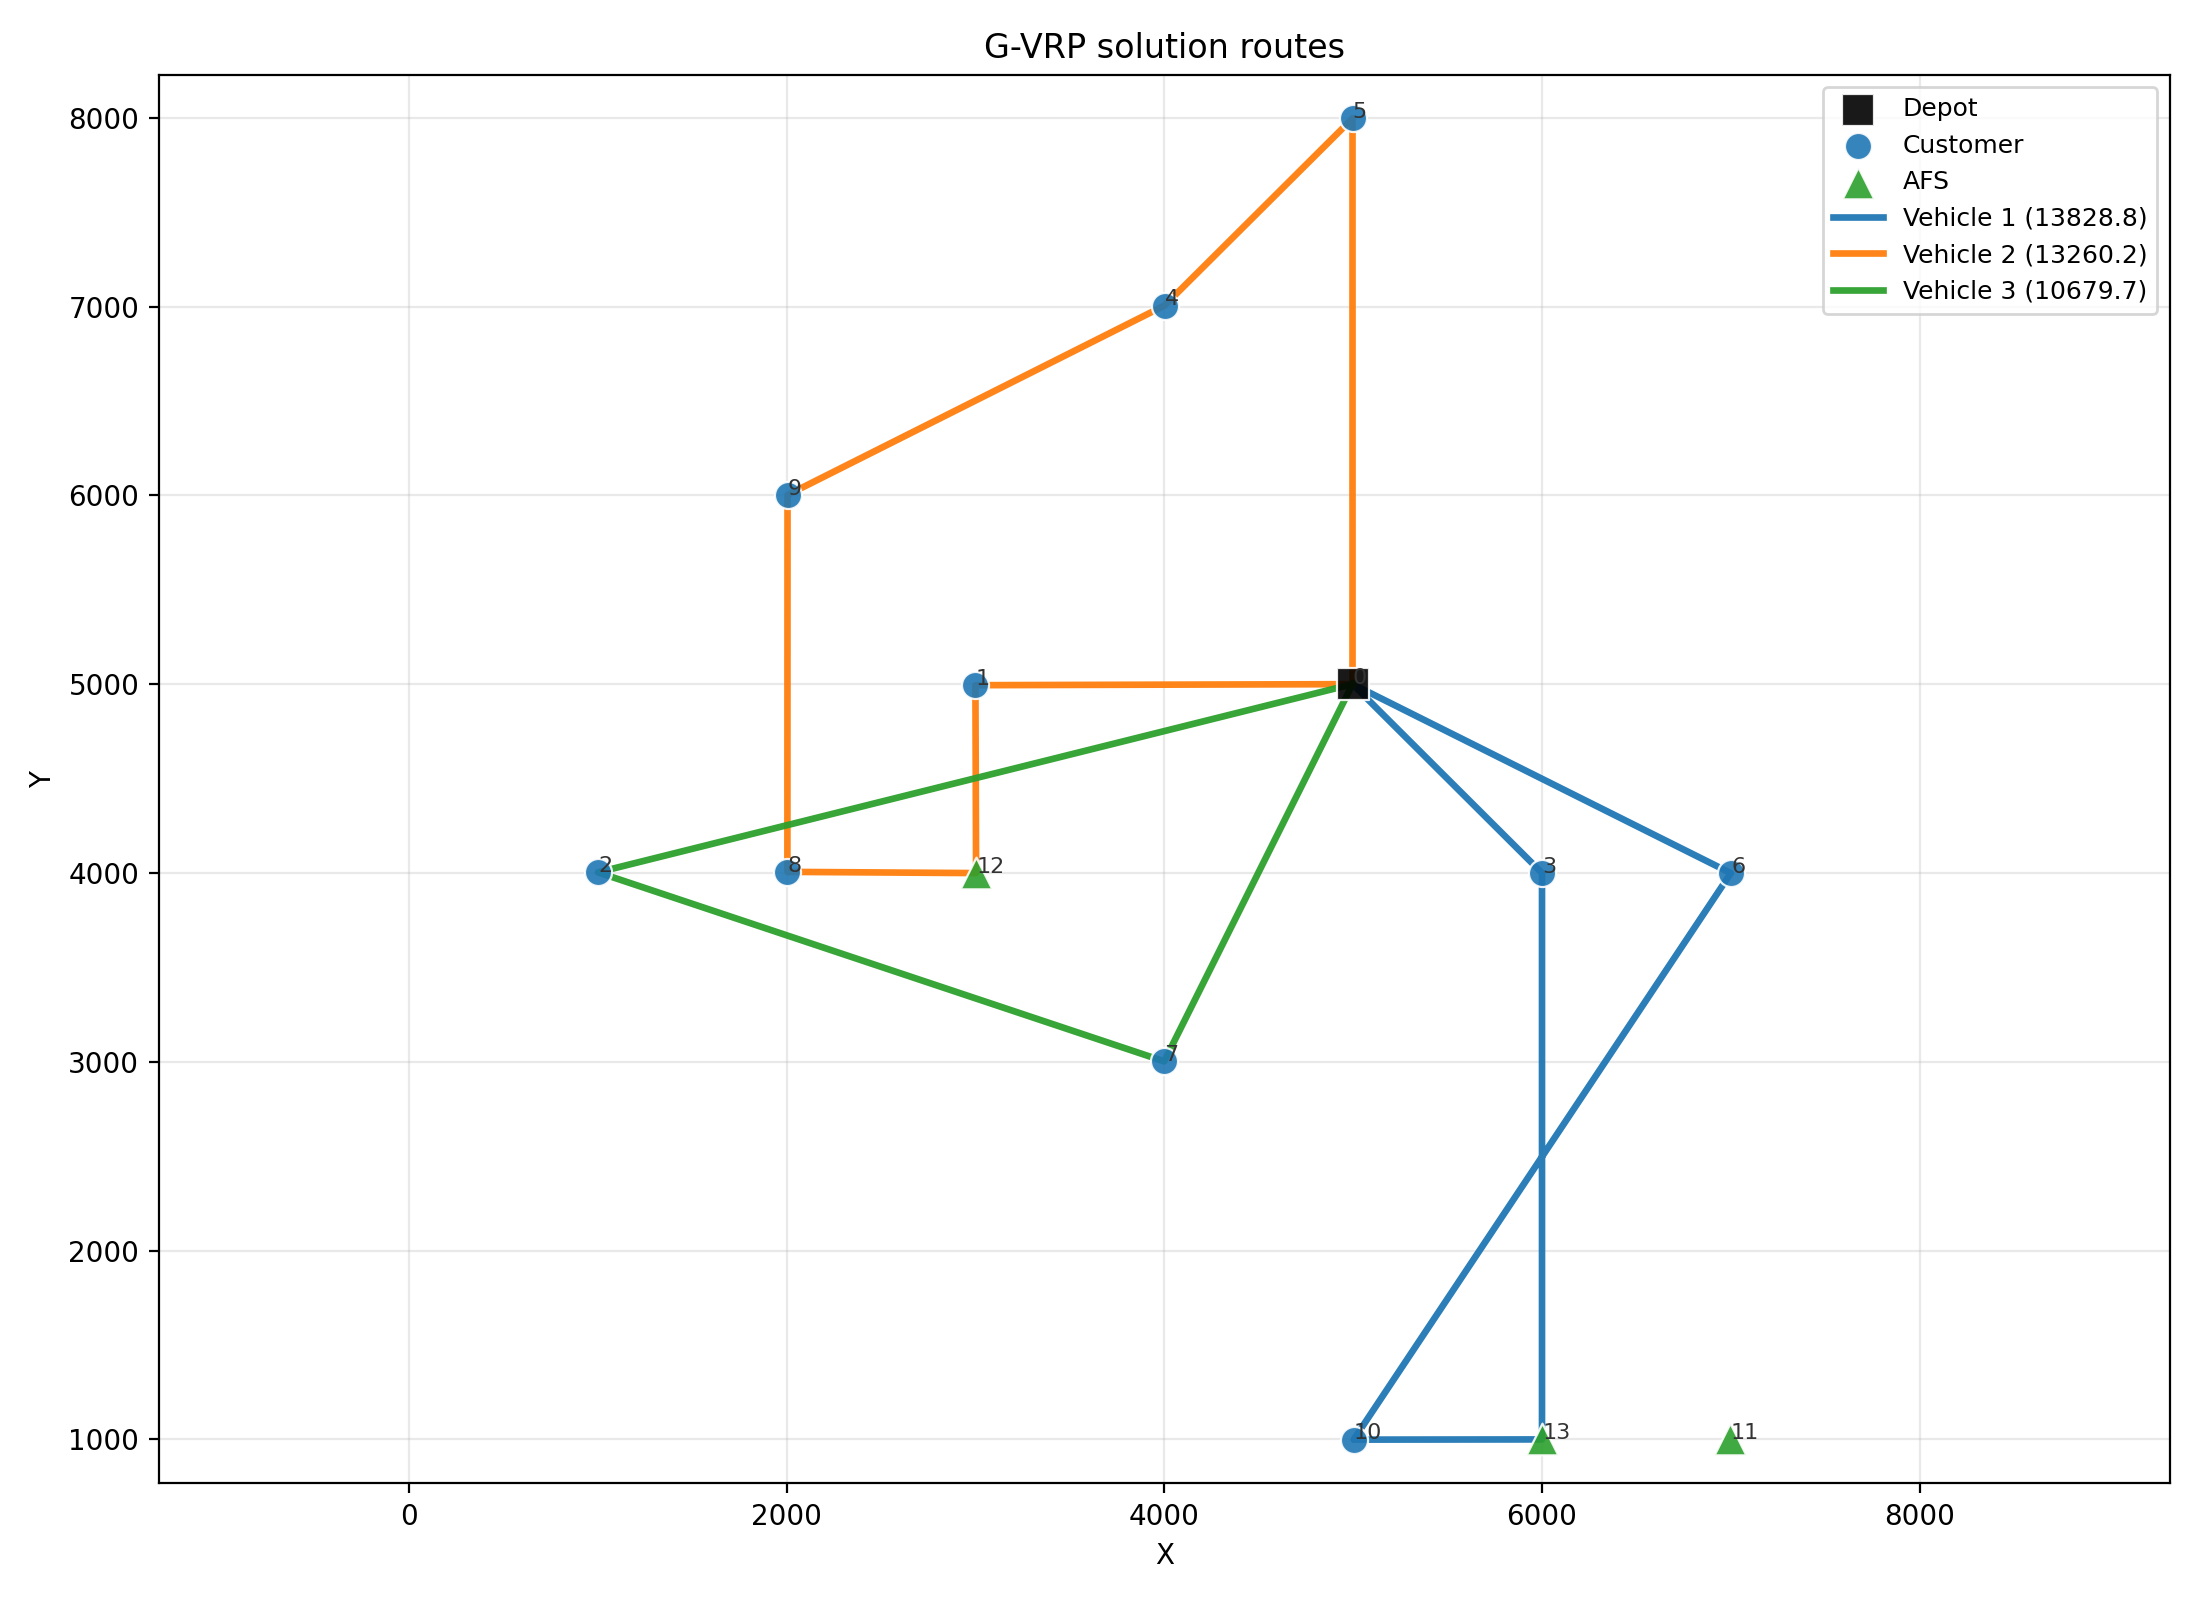
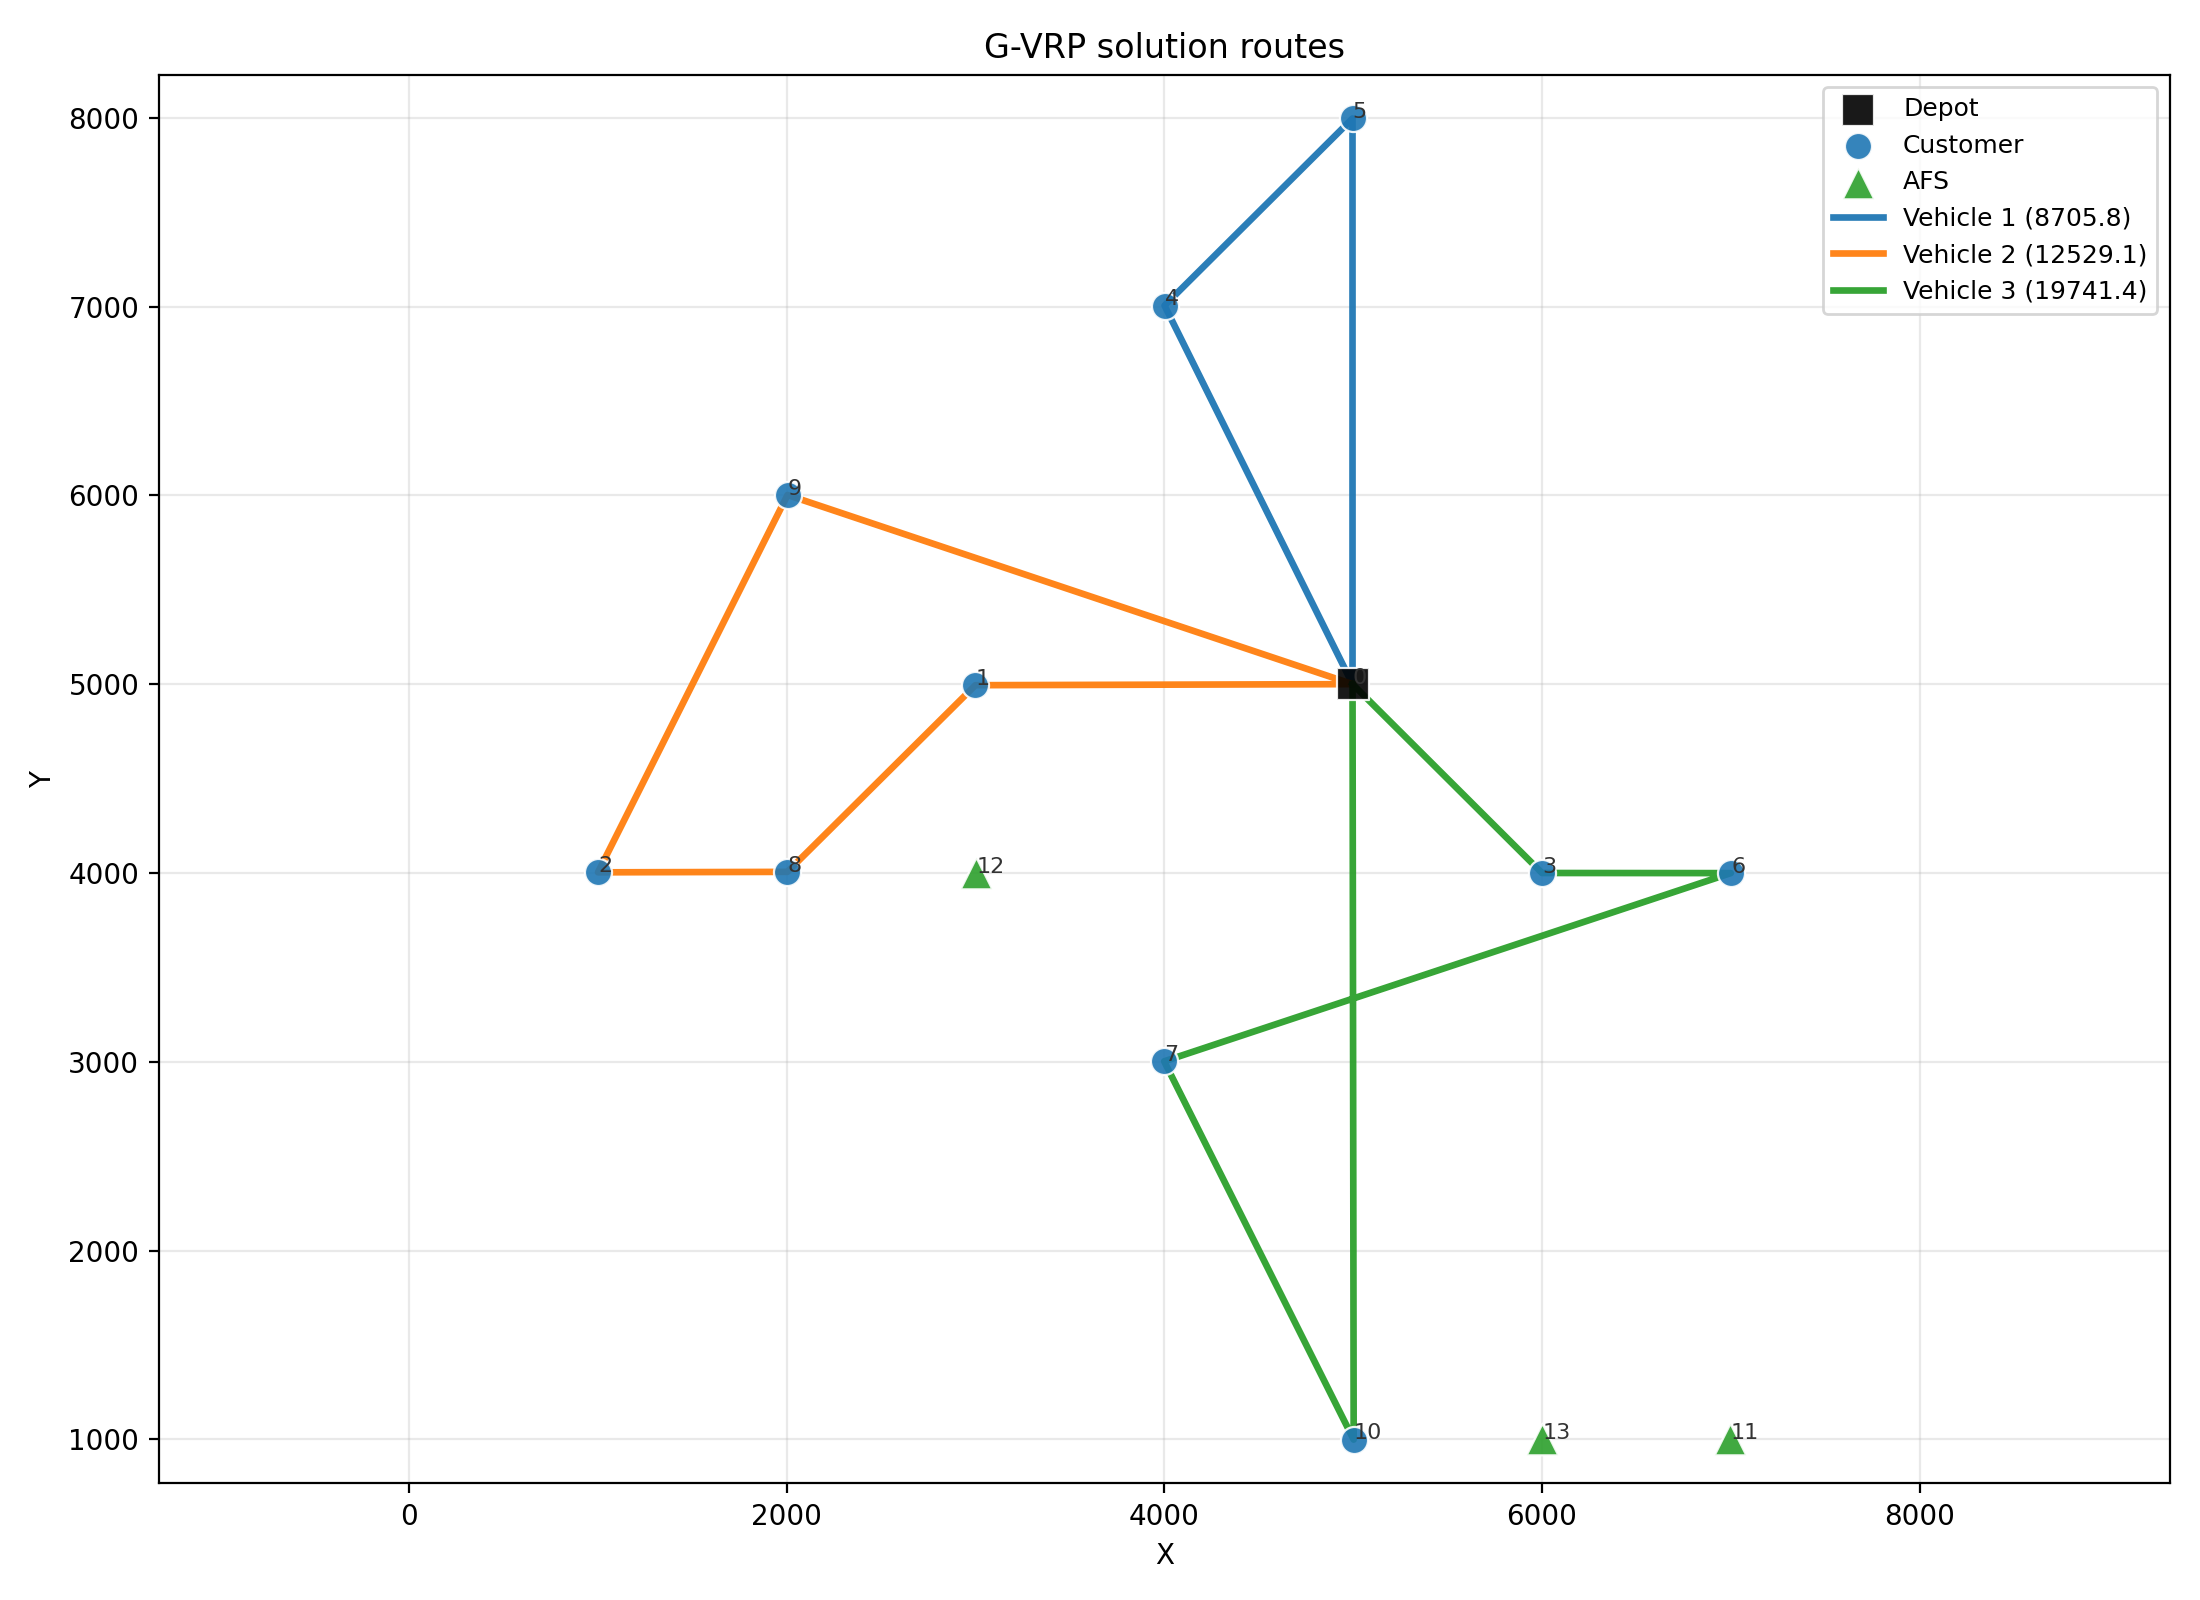
runtime refueling trackback

diff --git a/dronesim/evrp/simulator/evrp_sim.py b/dronesim/evrp/simulator/evrp_sim.py
@@ -43,7 +43,7 @@ try:
 except ImportError as e:
     raise ImportError(f"traci/sumolib required for simulation: {e}") from e
 
-from ..planners.base import Route
+from ..planners.base import Route, Stop
 from .pygame_renderer import PygameRenderer
 
 
@@ -121,6 +121,13 @@ class _VehicleState:
         self.current_fuel = max(0.0, self.current_fuel - used)
         self.distance_m += dist_m
         self.energy_kwh += used * self._GAL_TO_KWH
+
+    @property
+    def range_m(self) -> float:
+        """Remaining range in metres given current fuel."""
+        if self.consumption_rate <= 0:
+            return float("inf")
+        return self.current_fuel / self.consumption_rate
 
     def refuel(self) -> None:
         self.current_fuel = self.fuel_capacity
@@ -231,6 +238,7 @@ class EVRPSimulator:
         self.refuel_time_s = float(self._gvrp_cfg.get("refuel_time_hours", 0.25)) * 3600.0
         self.service_time_s = float(self._gvrp_cfg.get("customer_service_time_hours", 0.5)) * 3600.0
 
+        self.runtime_refuel = bool(self._sim_cfg.get("runtime_refuel", True))
         self.render_mode = str(self._sim_cfg.get("render_mode", "quiet")).strip().lower()
         valid_render_modes = {"quiet", "print", "human"}
         if self.render_mode not in valid_render_modes:
@@ -354,38 +362,129 @@ class EVRPSimulator:
         served_customers: set[str],
         vehicle_states: dict[int, _VehicleState],
     ) -> float:
-        """Drive one vehicle through its planned stops. Returns updated sim time."""
+        """Drive one vehicle through its planned stops. Returns updated sim time.
+
+        Fuel constraints enforced at runtime
+        -------------------------------------
+        Before driving to the next planned stop the simulator checks:
+
+        1. **Hard fuel gate** — is there enough fuel to physically reach the
+           next stop?  If not the vehicle's run ends where it is.
+        2. **Range callback** — is there enough fuel to reach the next stop
+           *and* return to the depot from there?  If not the vehicle drives
+           back to the depot first, refuels, then resumes its route.
+        3. **Depot recharge** — any depot visit (planned or unplanned
+           trackback) fully recharges the vehicle.
+        """
         stops = route.stops
         if len(stops) < 2:
             return sim_time_s
 
-        for leg_idx in range(len(stops) - 1):
+        # Identify the depot node from the first stop.
+        depot_node = stops[0].sumo_node_id
+
+        leg_idx = 0
+        while leg_idx < len(stops) - 1:
             src_stop = stops[leg_idx]
             dst_stop = stops[leg_idx + 1]
 
             src_node = src_stop.sumo_node_id
             dst_node = dst_stop.sumo_node_id
 
+            # ── Same-node dummy stops (AFS / depot copies) ────────────
             if src_node == dst_node:
-                # dummy copy of same physical node — no travel needed
                 sim_time_s = self._wait(sim_time_s, self.refuel_time_s, traffic)
                 vs.refuel()
+                leg_idx += 1
                 continue
 
-            # Find edge route between nodes
+            dist_to_next = self._route_distance_m(src_node, dst_node)
+
+            # ── Hard fuel gate ─────────────────────────────────────────
+            # Not enough fuel to even reach the next stop → end run.
+            if vs.range_m < dist_to_next:
+                if self.render_mode in ("print", "human"):
+                    print(
+                        f"  vehicle {vs.vehicle_id} stranded at {src_stop.node_name}: "
+                        f"range={vs.range_m:.1f}m < {dist_to_next:.1f}m to "
+                        f"{dst_stop.node_name}, ending run"
+                    )
+                break
+
+            # ── Range callback (optional) ──────────────────────────────
+            # Check: can the vehicle reach dst *and* still return to depot?
+            dist_dst_to_depot = self._route_distance_m(dst_node, depot_node)
+            if self.runtime_refuel and vs.range_m < dist_to_next + dist_dst_to_depot:
+                # Not enough range for the round-trip — trackback to depot.
+                dist_to_depot = self._route_distance_m(src_node, depot_node)
+
+                if vs.range_m < dist_to_depot:
+                    # Cannot even reach the depot from here → end run.
+                    if self.render_mode in ("print", "human"):
+                        print(
+                            f"  vehicle {vs.vehicle_id} stranded at "
+                            f"{src_stop.node_name}: cannot reach depot, ending run"
+                        )
+                    break
+
+                # Drive back to depot, refuel, then resume from this leg_idx.
+                edge_list = self._find_edge_route(src_node, depot_node)
+                if not edge_list:
+                    if self.render_mode in ("print", "human"):
+                        print(
+                            f"  [warn] vehicle {vs.vehicle_id}: no route to depot "
+                            f"from {src_node}, ending run"
+                        )
+                    break
+
+                dist_m, sim_time_s = self._drive(vs, edge_list, sim_time_s, traffic)
+                vs.consume(dist_m)
+                vehicle_positions[vs.vehicle_id] = depot_node
+
+                # Refuel at depot
+                sim_time_s = self._wait(sim_time_s, self.refuel_time_s, traffic)
+                vs.refuel()
+                if self.render_mode in ("print", "human"):
+                    print(
+                        f"  vehicle {vs.vehicle_id} trackback refuel at depot "
+                        f"t={sim_time_s:.1f}s  fuel={vs.current_fuel:.3f}gal"
+                    )
+
+                if renderer is not None:
+                    renderer.draw(
+                        sim_time_s=sim_time_s,
+                        traffic_speed_ms=traffic.commanded_speed_ms,
+                        vehicle_positions=vehicle_positions,
+                        served_customers=served_customers,
+                        vehicle_states=vehicle_states,
+                    )
+
+                # After refuel, update src to depot and retry this leg.
+                # Replace the source stop with the depot for the next
+                # iteration so _find_edge_route starts from depot.
+                stops[leg_idx] = Stop(
+                    sumo_node_id=depot_node,
+                    node_name="D",
+                    node_type="depot",
+                    planned_fuel=vs.current_fuel,
+                    planned_time=0.0,
+                )
+                continue  # retry leg_idx (now from depot)
+
+            # ── Drive to next stop ─────────────────────────────────────
             edge_list = self._find_edge_route(src_node, dst_node)
             if not edge_list:
-                print(
-                    f"  [warn] vehicle {vs.vehicle_id}: no SUMO route "
-                    f"{src_node} -> {dst_node}, skipping leg"
-                )
+                if self.render_mode in ("print", "human"):
+                    print(
+                        f"  [warn] vehicle {vs.vehicle_id}: no SUMO route "
+                        f"{src_node} -> {dst_node}, skipping leg"
+                    )
+                leg_idx += 1
                 continue
 
-            # Spawn vehicle and advance until it arrives
             dist_m, sim_time_s = self._drive(vs, edge_list, sim_time_s, traffic)
             vs.consume(dist_m)
 
-            # Update position and handle stop type
             vehicle_positions[vs.vehicle_id] = dst_node
             ntype = dst_stop.node_type
 
@@ -407,8 +506,15 @@ class EVRPSimulator:
                         f"  vehicle {vs.vehicle_id} refuelled at {dst_stop.node_name} "
                         f"t={sim_time_s:.1f}s"
                     )
+            elif ntype in ("depot", "depot_dummy"):
+                sim_time_s = self._wait(sim_time_s, self.refuel_time_s, traffic)
+                vs.refuel()
+                if self.render_mode in ("print", "human"):
+                    print(
+                        f"  vehicle {vs.vehicle_id} refuelled at depot "
+                        f"t={sim_time_s:.1f}s"
+                    )
 
-            # Redraw after every stop arrival
             if renderer is not None:
                 renderer.draw(
                     sim_time_s=sim_time_s,
@@ -417,6 +523,8 @@ class EVRPSimulator:
                     served_customers=served_customers,
                     vehicle_states=vehicle_states,
                 )
+
+            leg_idx += 1
 
         return sim_time_s
 
@@ -570,6 +678,17 @@ class EVRPSimulator:
             if edge_data:
                 edge_ids.append(edge_data["id"])
         return edge_ids
+
+    def _route_distance_m(self, src_node: str, dst_node: str) -> float:
+        """Shortest-path distance in metres between two nodes on the routing graph."""
+        try:
+            return float(
+                nx.shortest_path_length(
+                    self._routing_graph, src_node, dst_node, weight="length"
+                )
+            )
+        except (nx.NetworkXNoPath, nx.NodeNotFound):
+            return float("inf")
 
     @staticmethod
     def _collect_node_roles(routes: list[Route]) -> dict[str, str]:
